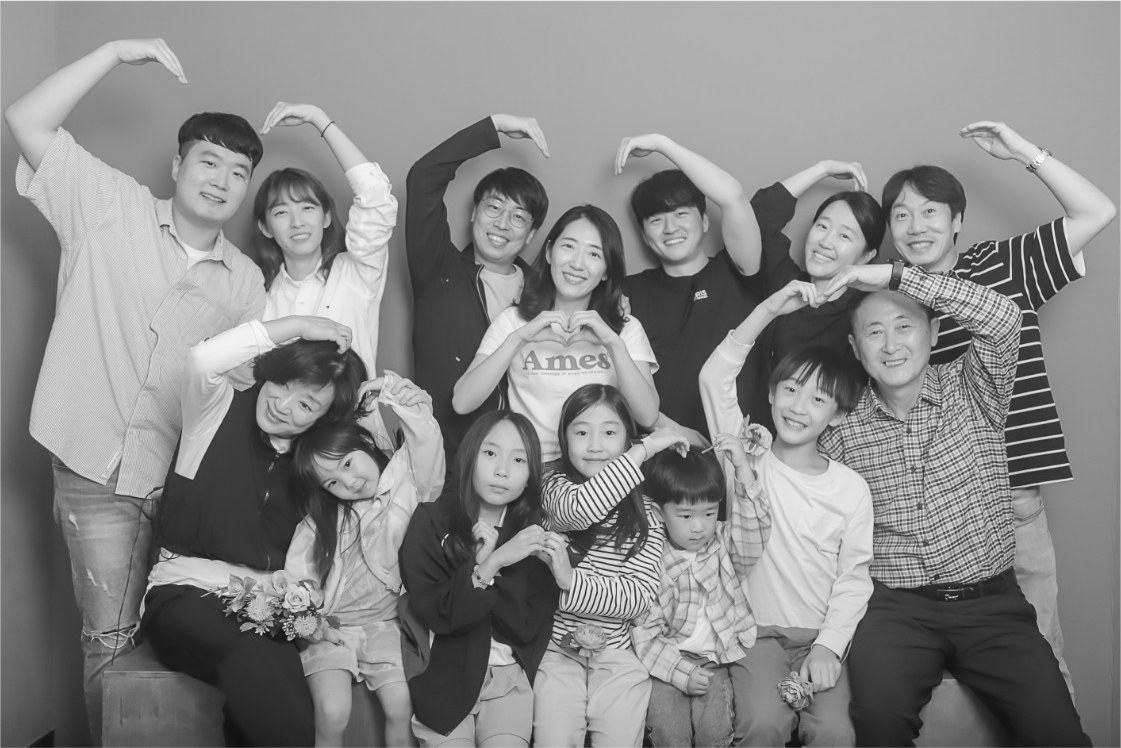
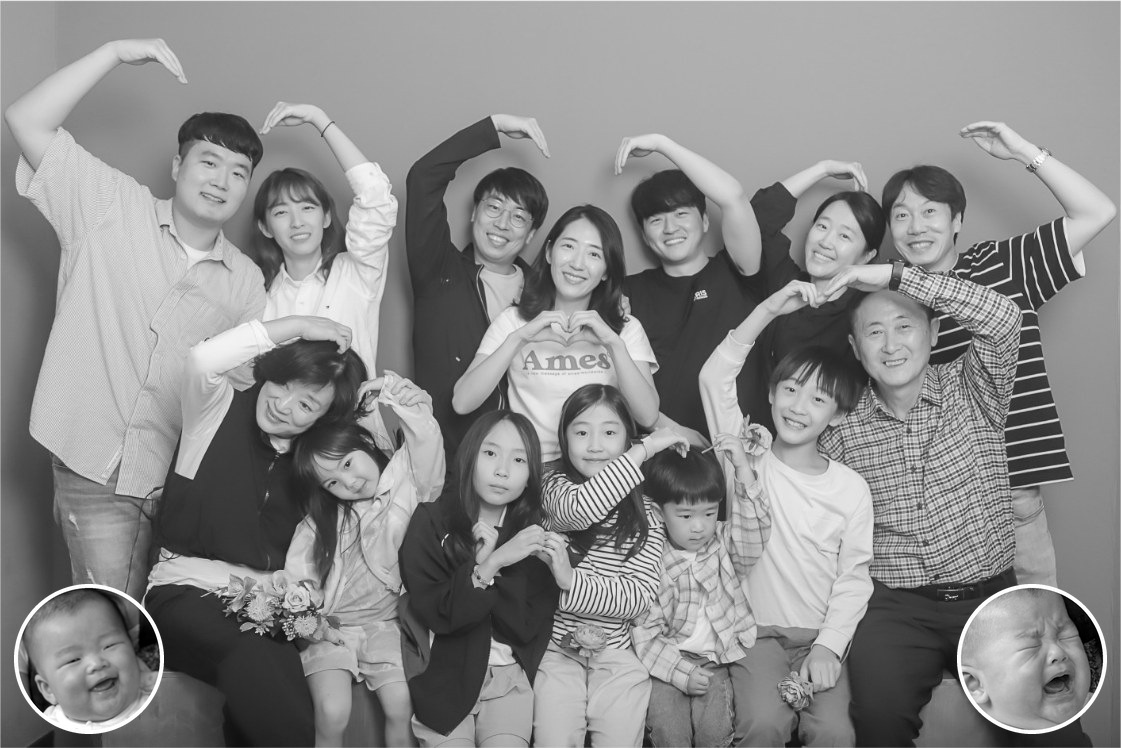
가족사진 양쪽 아래에 막내 얼굴 원형으로 추가
Claude-Session: https://claude.ai/code/session_01QpxhhND7EjvuznmcGZtBx4

Changed region(s): [[0.843, 0.7687, 0.9991, 0.984], [0.0, 0.7687, 0.1561, 0.984]]

diff --git a/index.html b/index.html
@@ -203,7 +203,7 @@ a:focus-visible { outline: 2px solid var(--indigo); outline-offset: 2px; border-
   </header>
 
   <figure class="photo">
-    <img src="family.jpg" alt="아빠와 엄마, 네 남매 가족과 손주들이 손으로 하트를 만들며 함께 찍은 가족사진">
+    <img src="family.jpg" alt="아빠와 엄마, 네 남매 가족과 손주들이 손으로 하트를 만들며 함께 찍은 가족사진. 양쪽 아래에 막내의 웃는 얼굴과 우는 얼굴이 동그랗게 들어 있어요">
     <figcaption>우리 가족, 2025년 가을</figcaption>
   </figure>
 
